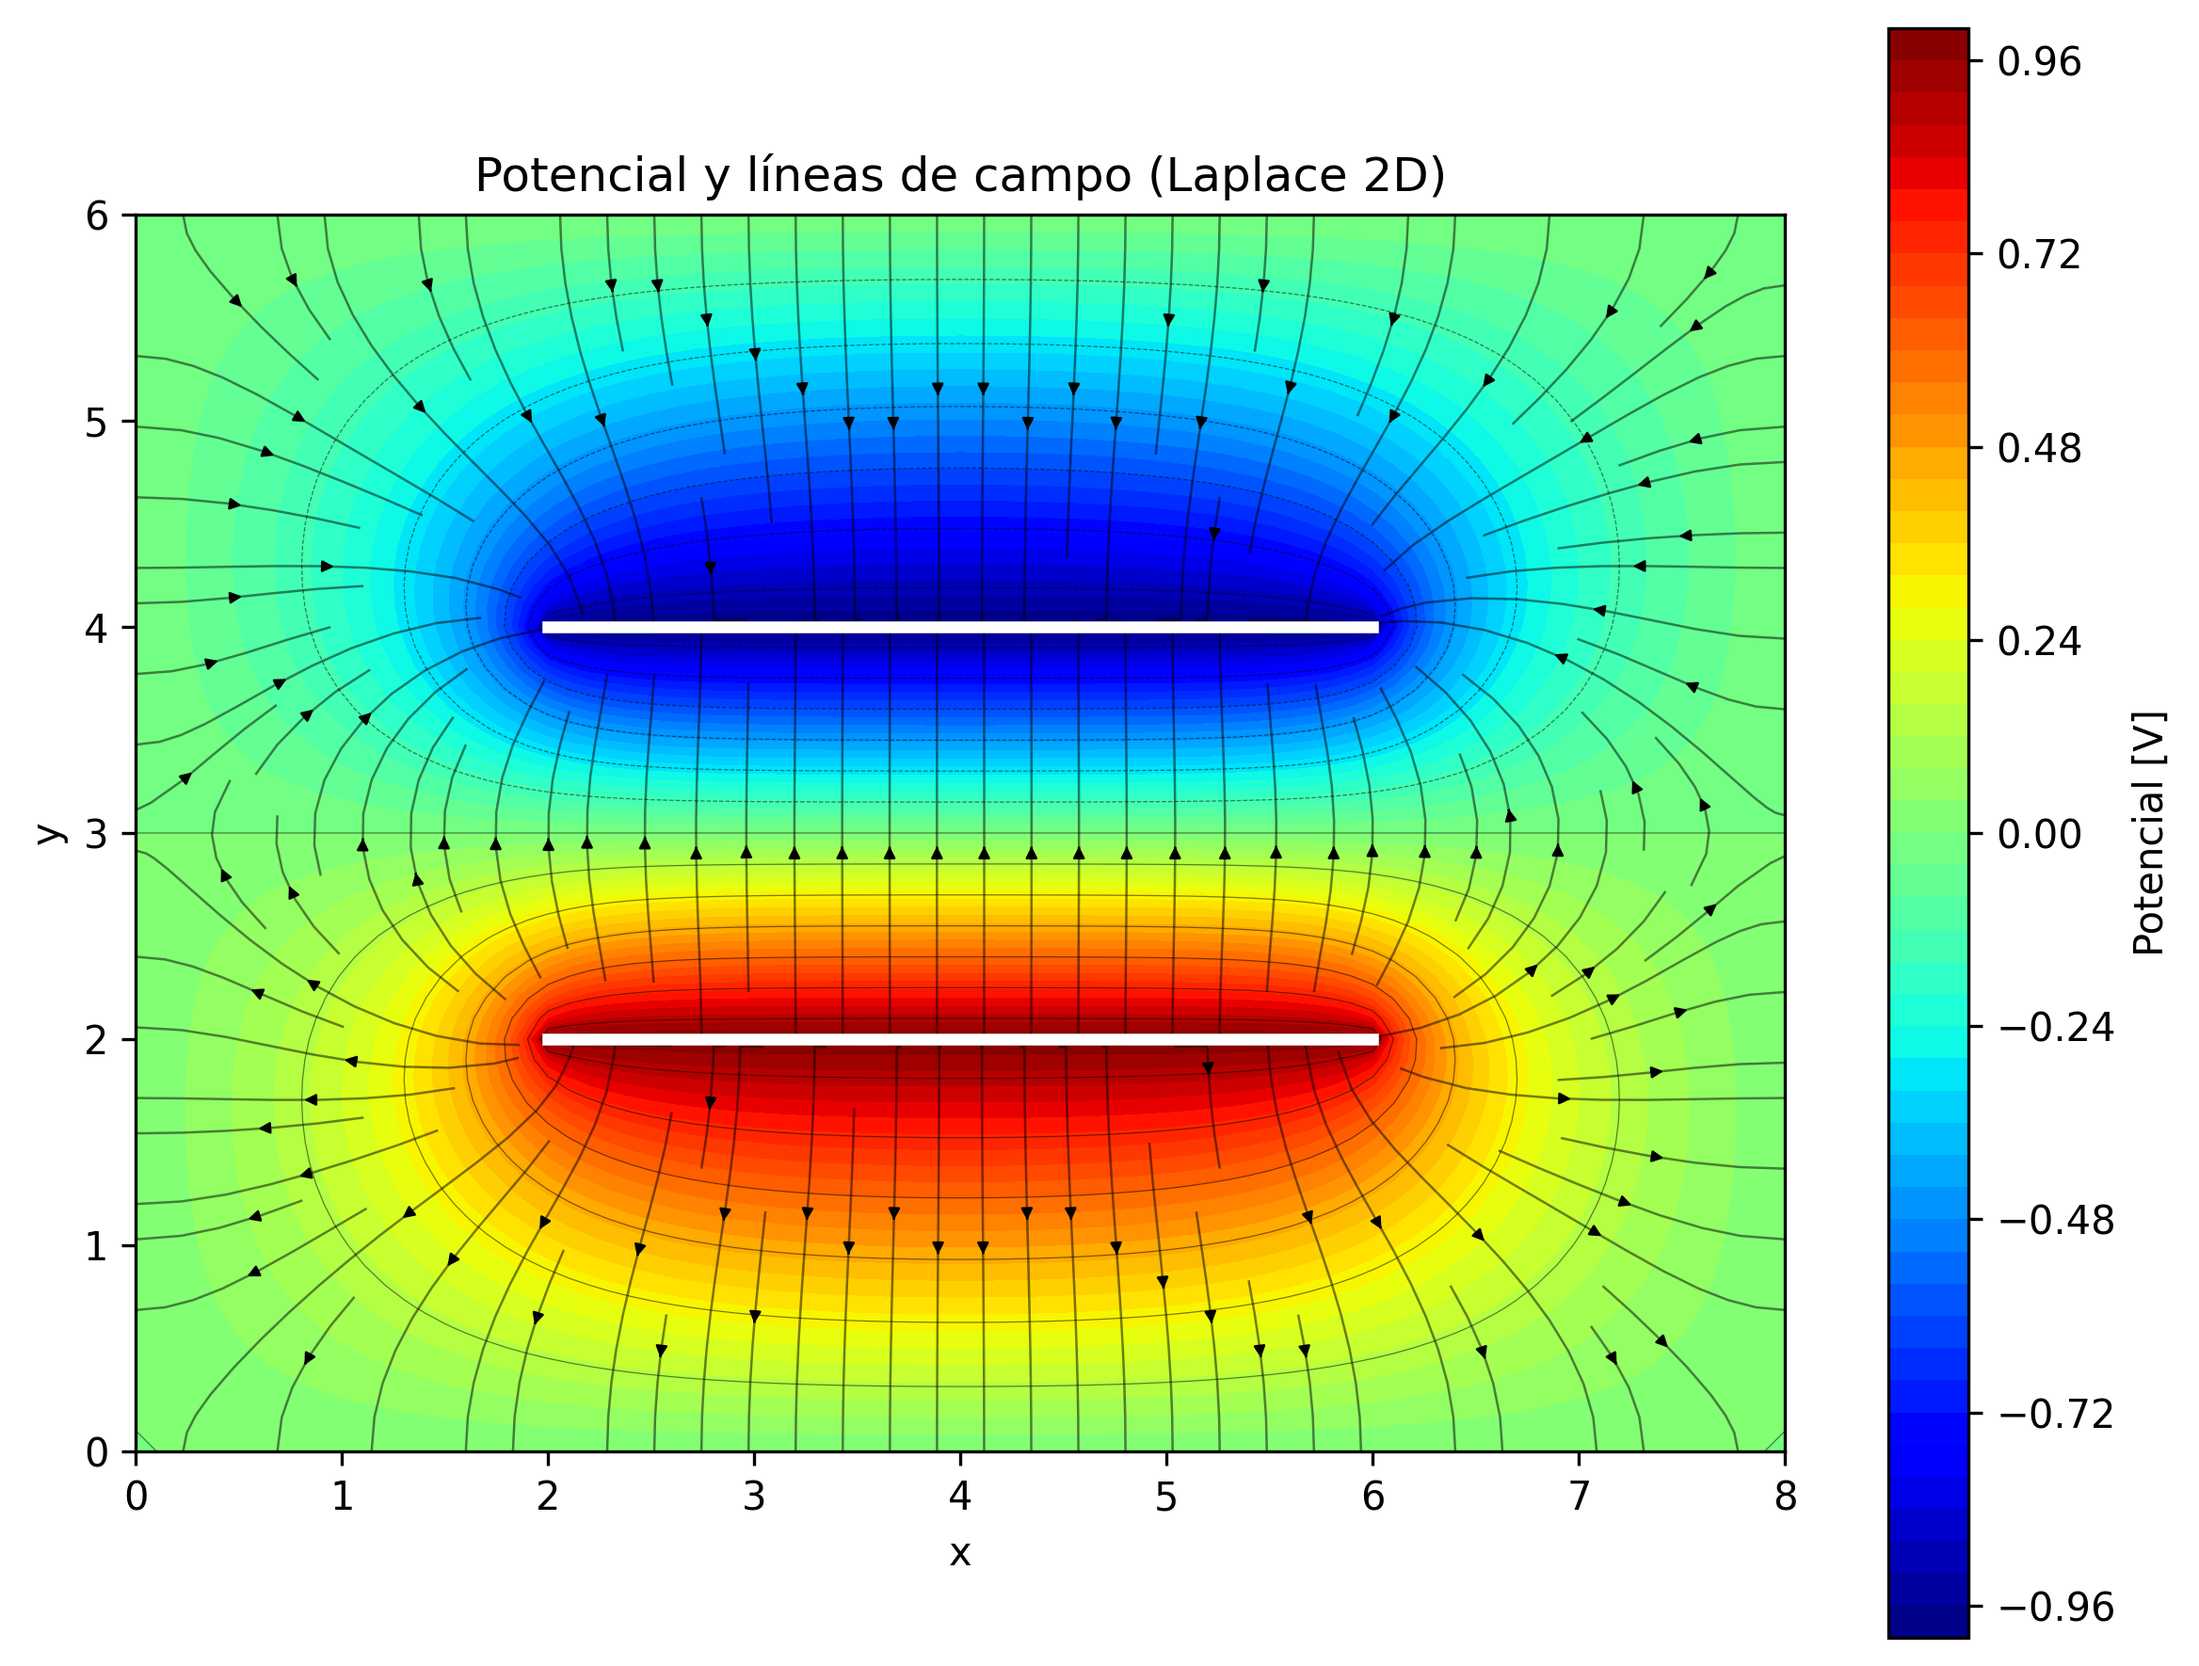
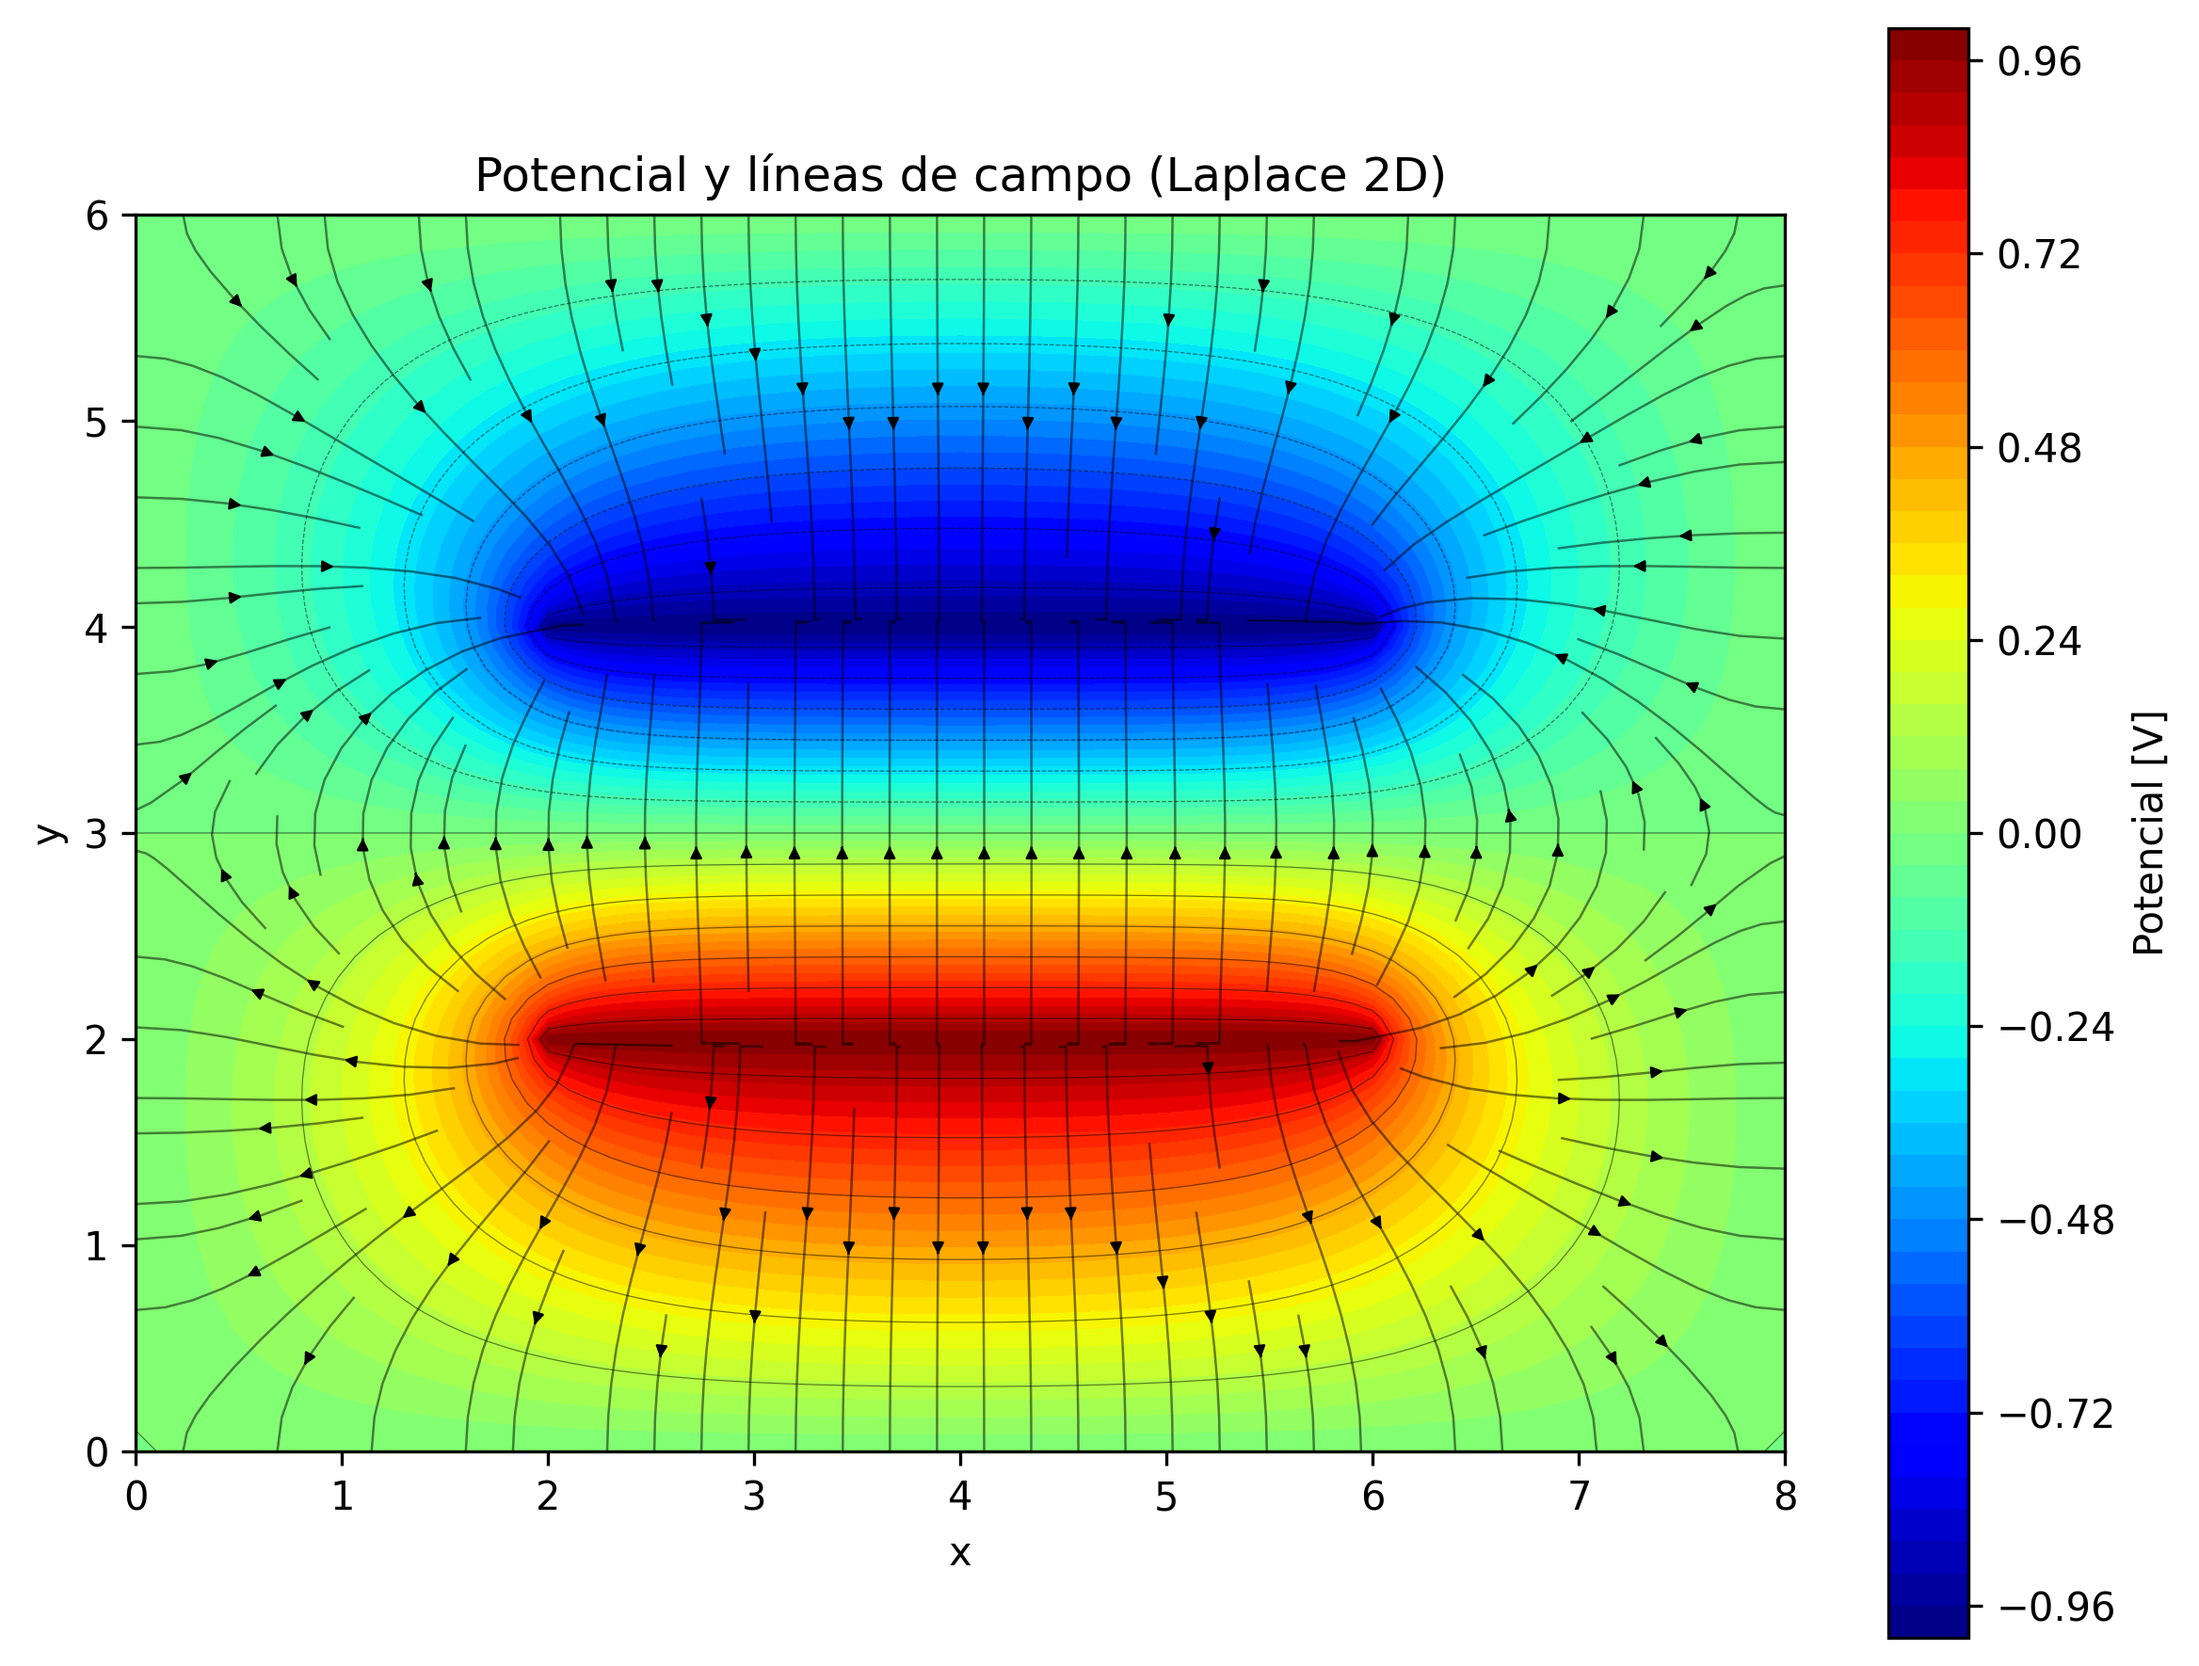
Show changes to Samu

Changed region(s): [[0.25, 0.6215, 0.625, 0.6525], [0.25, 0.3729, 0.625, 0.404]]

diff --git a/MIniproyecto2/Punto 1/Laplace2D.py b/MIniproyecto2/Punto 1/Laplace2D.py
@@ -181,7 +181,7 @@ def main():
     trazar_potencial_y_campo(
         X, Y, V_grid, Vp1, Vp2,
         ruta_salida=r"D:\stuff\Semestre 6\Metodos\Metodos-Numericos-2025-1-Samuel-Gil-Juan-Alvarez-\MIniproyecto2\Punto 1\docs\laplace2d_solucion.png",
-        dibujar_placas=True
+        dibujar_placas=False
     )
 
     # Si quieres exportar datos numéricos:
